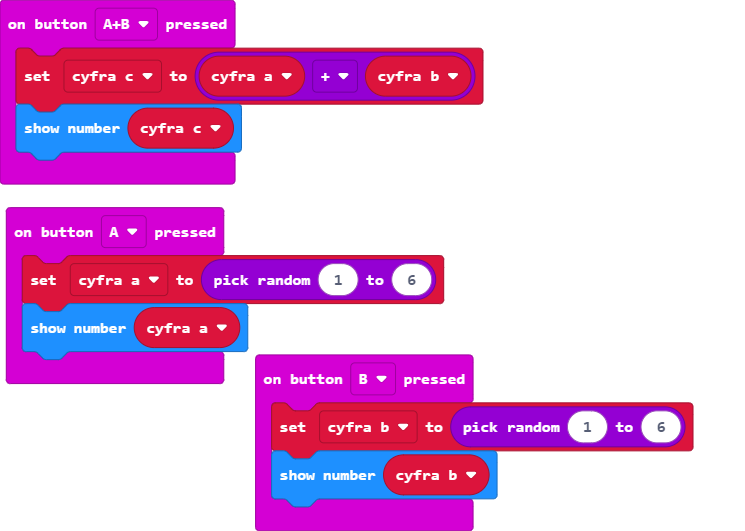
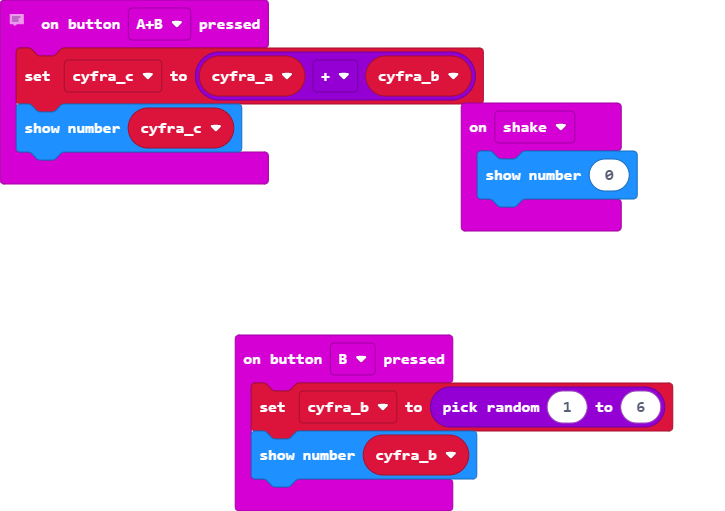
Update pxt.json, main.blocks, main.ts, main.py

diff --git a/main.ts b/main.ts
@@ -1,15 +1,23 @@
 let cyfra_a = 0
 let cyfra_c = 0
 let cyfra_b = 0
-input.onButtonPressed(Button.A, function () {
+//  tutaj definują przyciskanie A do losoawania A
+input.onButtonPressed(Button.A, function on_button_pressed_a() {
+    
     cyfra_a = randint(1, 6)
     basic.showNumber(cyfra_a)
 })
-input.onButtonPressed(Button.AB, function () {
+input.onButtonPressed(Button.AB, function on_button_pressed_ab() {
+    
+    let cyfra_a = 0
     cyfra_c = cyfra_a + cyfra_b
     basic.showNumber(cyfra_c)
 })
-input.onButtonPressed(Button.B, function () {
+input.onButtonPressed(Button.B, function on_button_pressed_b() {
+    
     cyfra_b = randint(1, 6)
     basic.showNumber(cyfra_b)
+})
+input.onGesture(Gesture.Shake, function on_gesture_shake() {
+    basic.showNumber(0)
 })

diff --git a/main.py b/main.py
@@ -1,17 +1,26 @@
+cyfra_a = 0
+cyfra_c = 0
+cyfra_b = 0
+# tutaj definują przyciskanie A do losoawania A
 def on_button_pressed_a():
-    basic.show_number(randint(1, 6))
+    global cyfra_a
+    cyfra_a = randint(1, 6)
+    basic.show_number(cyfra_a)
 input.on_button_pressed(Button.A, on_button_pressed_a)
 
 def on_button_pressed_ab():
-    basic.show_number(0 + 0)
+    global cyfra_c
+    cyfra_a = 0
+    cyfra_c = cyfra_a + cyfra_b
+    basic.show_number(cyfra_c)
 input.on_button_pressed(Button.AB, on_button_pressed_ab)
 
 def on_button_pressed_b():
-    basic.show_number(randint(1, 6))
+    global cyfra_b
+    cyfra_b = randint(1, 6)
+    basic.show_number(cyfra_b)
 input.on_button_pressed(Button.B, on_button_pressed_b)
 
-basic.show_number(0)
-
-def on_forever():
-    pass
-basic.forever(on_forever)
+def on_gesture_shake():
+    basic.show_number(0)
+input.on_gesture(Gesture.SHAKE, on_gesture_shake)
